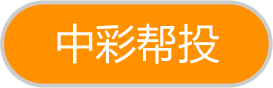
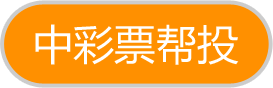
why

Changed region(s): [[0.1172, 0.25, 0.8791, 0.75]]

diff --git a/Ernie/ernie.html b/Ernie/ernie.html
@@ -32,7 +32,7 @@
 				this.busy = false;
 				this.result_callback = null;
 				this.playSuccess_callback = null;
-				var end_num = 12;
+				var end_num = 8;
 				this.anim.monitor = function(f,m)
 				{
 					if(_this.callback)
@@ -46,7 +46,7 @@
 						}
 						if(f==end)
 						{
-							end_num = 12;
+							end_num = 8;
 							if(_this.cur_status==0)
 								m.gotoAndPlay(fail);
 							else
@@ -70,12 +70,12 @@
 
 				this.setSrc = function(img,json)
 				{
-					this.anim.setSpriteSheet(img,json,60);
+					this.anim.setSpriteSheet(img,json,64);
 				}
 
 				this.setSec = function(imgs)
 				{
-					this.anim.setImageSequence(imgs,60);
+					this.anim.setImageSequence(imgs,64);
 					this.anim.useSequencePic = true;
 				}
 
@@ -122,6 +122,8 @@
 			var rate = 500000;
 			var right_number = Math.floor(Math.random()*rate);
 			var auto_max_time = Math.ceil(rate/3);//根据此设置弹出框
+
+			var descContent = "注意：玩前请洗手！分享朋友圈，看看谁是中国好手气。";
 		//
 		var layer = new ANEngine.Layer();
 
@@ -141,7 +143,7 @@
 		var link_text = new ANEngine.Sprite(2,7.3,6.3,.7);
 
 		var start_x = 3.2,start_y = 13.6;
-		var start_game = new ANEngine.Sprite(3,10,4.5,1.5);//开始游戏
+		var start_game = new ANEngine.Sprite(3.2,13.6,4.5,1.5);//开始游戏
 		var conti_game = new ANEngine.Sprite(3.2,13.6,4.5,1.5);//继续投注
 		var conti_btn = new ANEngine.Sprite(.77,13.6,4.5,1.5);//继续自己投
 		var help_btn = new ANEngine.Sprite(5.9,13.6,4.5,1.5);//中彩帮投
@@ -154,13 +156,11 @@
 		help_btn.name = "help_btn";
 		var banner_width = $(window).width()/ANEngine.drawScale-1;
 		var banner = new ANEngine.Sprite(.5,15.5,banner_width,banner_width*0.175);
-		banner.alpha = 0;
 		var x = new ANEngine.Sprite(banner.x+banner.width-.9,banner.y+.1,.9,.4);
-		x.alpha = 0;
 		banner.addEvent("mouseup",function(){location.href="http://m.zch168.com/activity?action=8yi&sid=800147";});
 		link_text.addEvent("mouseup",function(){location.href="http://m.zch168.com/activity?action=8yi&sid=800147";});
 		var head = new ANEngine.Sprite(-1,-3.5,$(window).width()/ANEngine.drawScale+2.5,10);
-		head.alpha = 0;head.name="head";
+		head.name="head";
 		layer.addAnimItem(head);
 
 		function getResult()
@@ -198,7 +198,30 @@
 			if(zhushu>=10000)
 				zhushu_result_text.text = Math.round(zhushu/10000)+"万";
 			if(zhushu>=5000)
-				price_text.text = Math.round(zhushu/5000)+"万";
+				price_text.text = Math.round(zhushu/10000)*2+"万";
+
+			var _str;
+			var percent;
+			_str = zhushu*2;
+			if(zhushu>5000)
+				_str = Math.round(zhushu/10000)*2;
+
+			if(zhushu<6000)
+				percent = "99%";
+			else if(zhushu<10000)
+				percent = "85%";
+			else if(zhushu<100000)
+				percent = "50%";
+			else if(zhushu<300000)
+				percent = "30%";
+			else if(zhushu<=500000)
+				percent = "20%";
+			else if(zhushu>500000)
+				percent = "10%";
+			else if(zhushu>1000000)
+				percent = "1%";
+			descContent = "我花了"+_str+"万，拿下了彩票500万大奖，打败了"+percent+"人，谁能比我手更红";
+
 			layer.addAnimItem(start_game,3);
 			layer.addAnimItem(cover,4);
 			layer.addAnimItem(popup_box,4);
@@ -235,8 +258,19 @@
 		window.onload = function()
 		{
 			ernie = new Ernie();//ernie.anim.drawBorder = true;
-			ernie.anim.alpha = 0;
-			if(window.screen.availHeight<1160)
+			if(window.screen.availHeight==548)
+			{//alert("这是5s");
+				//ernie.anim.width +=.2;ernie.anim.height += .2;
+				//ernie.anim.x -= .1;ernie.anim.y -= .1;
+				x.alpha = 0;
+				banner.y -= .3;
+				start_y -= .3;
+				start_game.y -= .3;
+				conti_game.y -= .3;
+				conti_btn.y -= .3;
+				help_btn.y -= .3;
+			}
+			else if(window.screen.availHeight<1000)
 			{
 				ernie.anim.width *= .7;ernie.anim.x += 1.4;
 				ernie.anim.height *= .7;
@@ -246,26 +280,33 @@
 				link_text.y -= 1.5;
 				zhushu_result_text.y -= 1.5;
 				price_text.y -= 1.5;
-				start_game.width *= .8;start_game.height *= .8;
+				start_game.width *= .8;start_game.height *= .64;
+				start_game.y -=3;start_game.x +=start_game.width/2-1.5;
 				start_y -= 3;start_x +=start_game.width/2-1.5;
-				conti_btn.width *= .8;conti_btn.height *= .8;
+				conti_btn.width *= .8;conti_btn.height *= .64;
 				conti_btn.y -= 3;conti_btn.x += 1;
-				conti_game.width *= .8;conti_game.height *=.8;
+				conti_game.width *= .8;conti_game.height *=.64;
 				conti_game.y -=3;conti_game.x +=conti_game.width/2-1.5;
-				help_btn.width *=.8;help_btn.height *=.8;
+				help_btn.width *=.8;help_btn.height *=.64;
 				help_btn.y -=3;help_btn.x +=help_btn.width/2-2;
 				banner.y -=3;
 			}
+			else
+			{
+				zhushu_text.x += 1;
+			}
+			
 			ANEngine.Platform = "";//"desktop" "mobile"
 			//ANEngine.SpecialPlatform = "IOS";
 			ANEngine.Scene.ShowFPS = false;
+			//ANEngine.fps = 100;	
 			var scene = new ANEngine.Scene(document.getElementById("canvas"));
 			ANEngine.Util.Window.FullScreen(scene);
 			scene.addLayer(layer);
 			
 			//Text
 			layer.addAnimItem(zhushu_text);
-			var notice_text = ["一次就想中，确定梦醒了？","成功就要坚持住，站直撸！~","再一再二，再接再厉！","中500万的机率，你懂的……","没耐心了啊，让中彩汇来帮你吧！"];var notice_text_i = 0;
+			var notice_text = ["一次就想中，确定梦醒了？","成功就要坚持住，站直撸！~","再一再二，再接再厉！","中500万的机率，你懂的……","没耐心了？让中彩票帮你投！"];var notice_text_i = 0;
 			notice =  new ANEngine.Widget.Text("别灰心，几率你懂得",1.5,2.1,0,1.1);
 			notice.alpha = 0;
 
@@ -326,13 +367,13 @@
 			var sec = new Array();
 			for(var i=1;i<=24;i++)
 				if(i<10)
-					sec.push("assets/png_sequence/Ernie000"+i+".png");
+					sec.push("assets/png_sequence_low/Ernie000"+i+".png");
 				else
-					sec.push("assets/png_sequence/Ernie00"+i+".png");
+					sec.push("assets/png_sequence_low/Ernie00"+i+".png");
 			loadMonitor.addImgSequence("ernie",sec,function(imgs,items){ernie.setSec(imgs)});
-			loadMonitor.addImgSource("assets/bg1.png",function(img){
+			/*loadMonitor.addImgSource("assets/bg1.png",function(img){
 				scene.setBG(img);
-			});
+			});*/
 			loadMonitor.addImgSource("assets/bg2.png");
 
 			loadMonitor.onprogress = function(cur,t)
@@ -344,6 +385,7 @@
 			{
 				//ernie.anim.drawBorder = true;
 				//ernie.setSrc(sources["assets/ernie.png"].item,sources["assets/ernie.json"].item);
+				scene.setBG(sources["assets/bg2.png"].item);
 				layer.addAnimItem(ernie.anim,2);
 				layer.addAnimItem(start_game,3);
 				layer.addAnimItem(notice);
@@ -372,6 +414,9 @@
 				var game_up_func = function(e)
 				{
 					e.target.setChartlet(game_btn_up);
+				}
+				var game_click_func = function(e)
+				{
 					if(auto)return;
 					//每轮结果
 					if(start==0)
@@ -406,7 +451,6 @@
 					//开始按钮切换
 					if(started==0)
 					{
-						scene.setBG(sources["assets/bg2.png"].item);
 						head.alpha = 1;
 						banner.alpha = 1;
 						zhushu_text.alpha = 1;
@@ -437,6 +481,9 @@
 				var help_down_func = function(e)
 				{
 					e.target.setChartlet(sources["assets/help_down.png"].item);
+				};
+				var help_click_func = function(e)
+				{
 					if(help_once==0&&start==0)
 					{
 						auto = true;
@@ -485,12 +532,16 @@
 				};
 				start_game.addEvent("mousedown",game_down_func);
 				start_game.addEvent("mouseup",game_up_func);
+				start_game.addEvent("click",game_click_func);
 				conti_game.addEvent("mousedown",game_down_func);
 				conti_game.addEvent("mouseup",game_up_func);
+				conti_game.addEvent("click",game_click_func);
 				conti_btn.addEvent("mousedown",game_down_func);
 				conti_btn.addEvent("mouseup",game_up_func);
+				conti_btn.addEvent("click",game_click_func);
 				help_btn.addEvent("mousedown",help_down_func);
 				help_btn.addEvent("mouseup",help_up_func);
+				help_btn.addEvent("click",help_click_func);
 			}
 
 			setInterval(function(){
@@ -503,13 +554,12 @@
 	<script>
 var imgUrl = 'http://why2012.gotoip55.com/myEngine/Ernie/favicon.png';
 var lineLink = 'http://why2012.gotoip55.com/myEngine/Ernie';
-var descContent = "注意：玩前请洗手！分享朋友圈，看看谁是中国好手气。";
 var shareTitle = '看看你这辈子有没有中500万彩票的命';
 var appid = 'wxc9937e3a66af6dc8';
 
 function shareFriend() {
     WeixinJSBridge.invoke('sendAppMessage',{
-                            "appid": appid,
+                            //"appid": appid,
                             "img_url": imgUrl,
                             "img_width": "64",
                             "img_height": "64",

diff --git a/Ernie/test.html b/Ernie/test.html
@@ -16,7 +16,7 @@
 	<script>
 		window.onload = function()
 		{
-			ANEngine.Platform = "mobile";
+			//ANEngine.Platform = "mobile";
 			var scene = new ANEngine.Scene(document.getElementById("canvas"));
 			var layer = new ANEngine.Layer();
 			scene.addLayer(layer);
@@ -84,11 +84,14 @@
 				btn.pivotY = btn.height/2;
 				btn.x = 5;
 				btn.animation.animate({scaleW:1,scaleH:1},500,ANEngine.Animation.TweenMode.Circ,ANEngine.Animation.EasingMode.EaseIn)
-				btn.addEvent("mouseup",function(e){
+				/*btn.addEvent("mouseup",function(e){
 					e.target.setChartlet(sources["../assets/wood.png"].item);
-				});
+				});*/
 				btn.addEvent("mousedown",function(e){
 					e.target.setChartlet(sources["../assets/glass.png"].item);
+				});
+				btn.addEvent("click",function(e){
+					e.target.setChartlet(sources["../assets/wood.png"].item);
 				});
 				layer.addAnimItem(mvc);
 				layer.addAnimItem(text1);

diff --git a/ANEngine/ANEngine.js b/ANEngine/ANEngine.js
@@ -486,10 +486,19 @@ ANEngine.Event.MouseEventDetector = function(dom)
 	var mouseup = function(e)
 	{
 		var _xy=e;
-		if(e.targetTouches)
-			_xy = e.targetTouches[0];
+		if(e.changedTouches)
+		{
+			//_xy = e.targetTouches[0];
+			_xy = e.changedTouches[0];
+		}
+			
 		if(_this.mouseup)
 			_this.mouseup(e,scaledPos(_xy));
+		if(e.changedTouches)
+		{
+			if(_this.onclick)
+				_this.onclick(e,scaledPos(_xy));
+		}
 	}
 
 	var mousemove = function(e)
